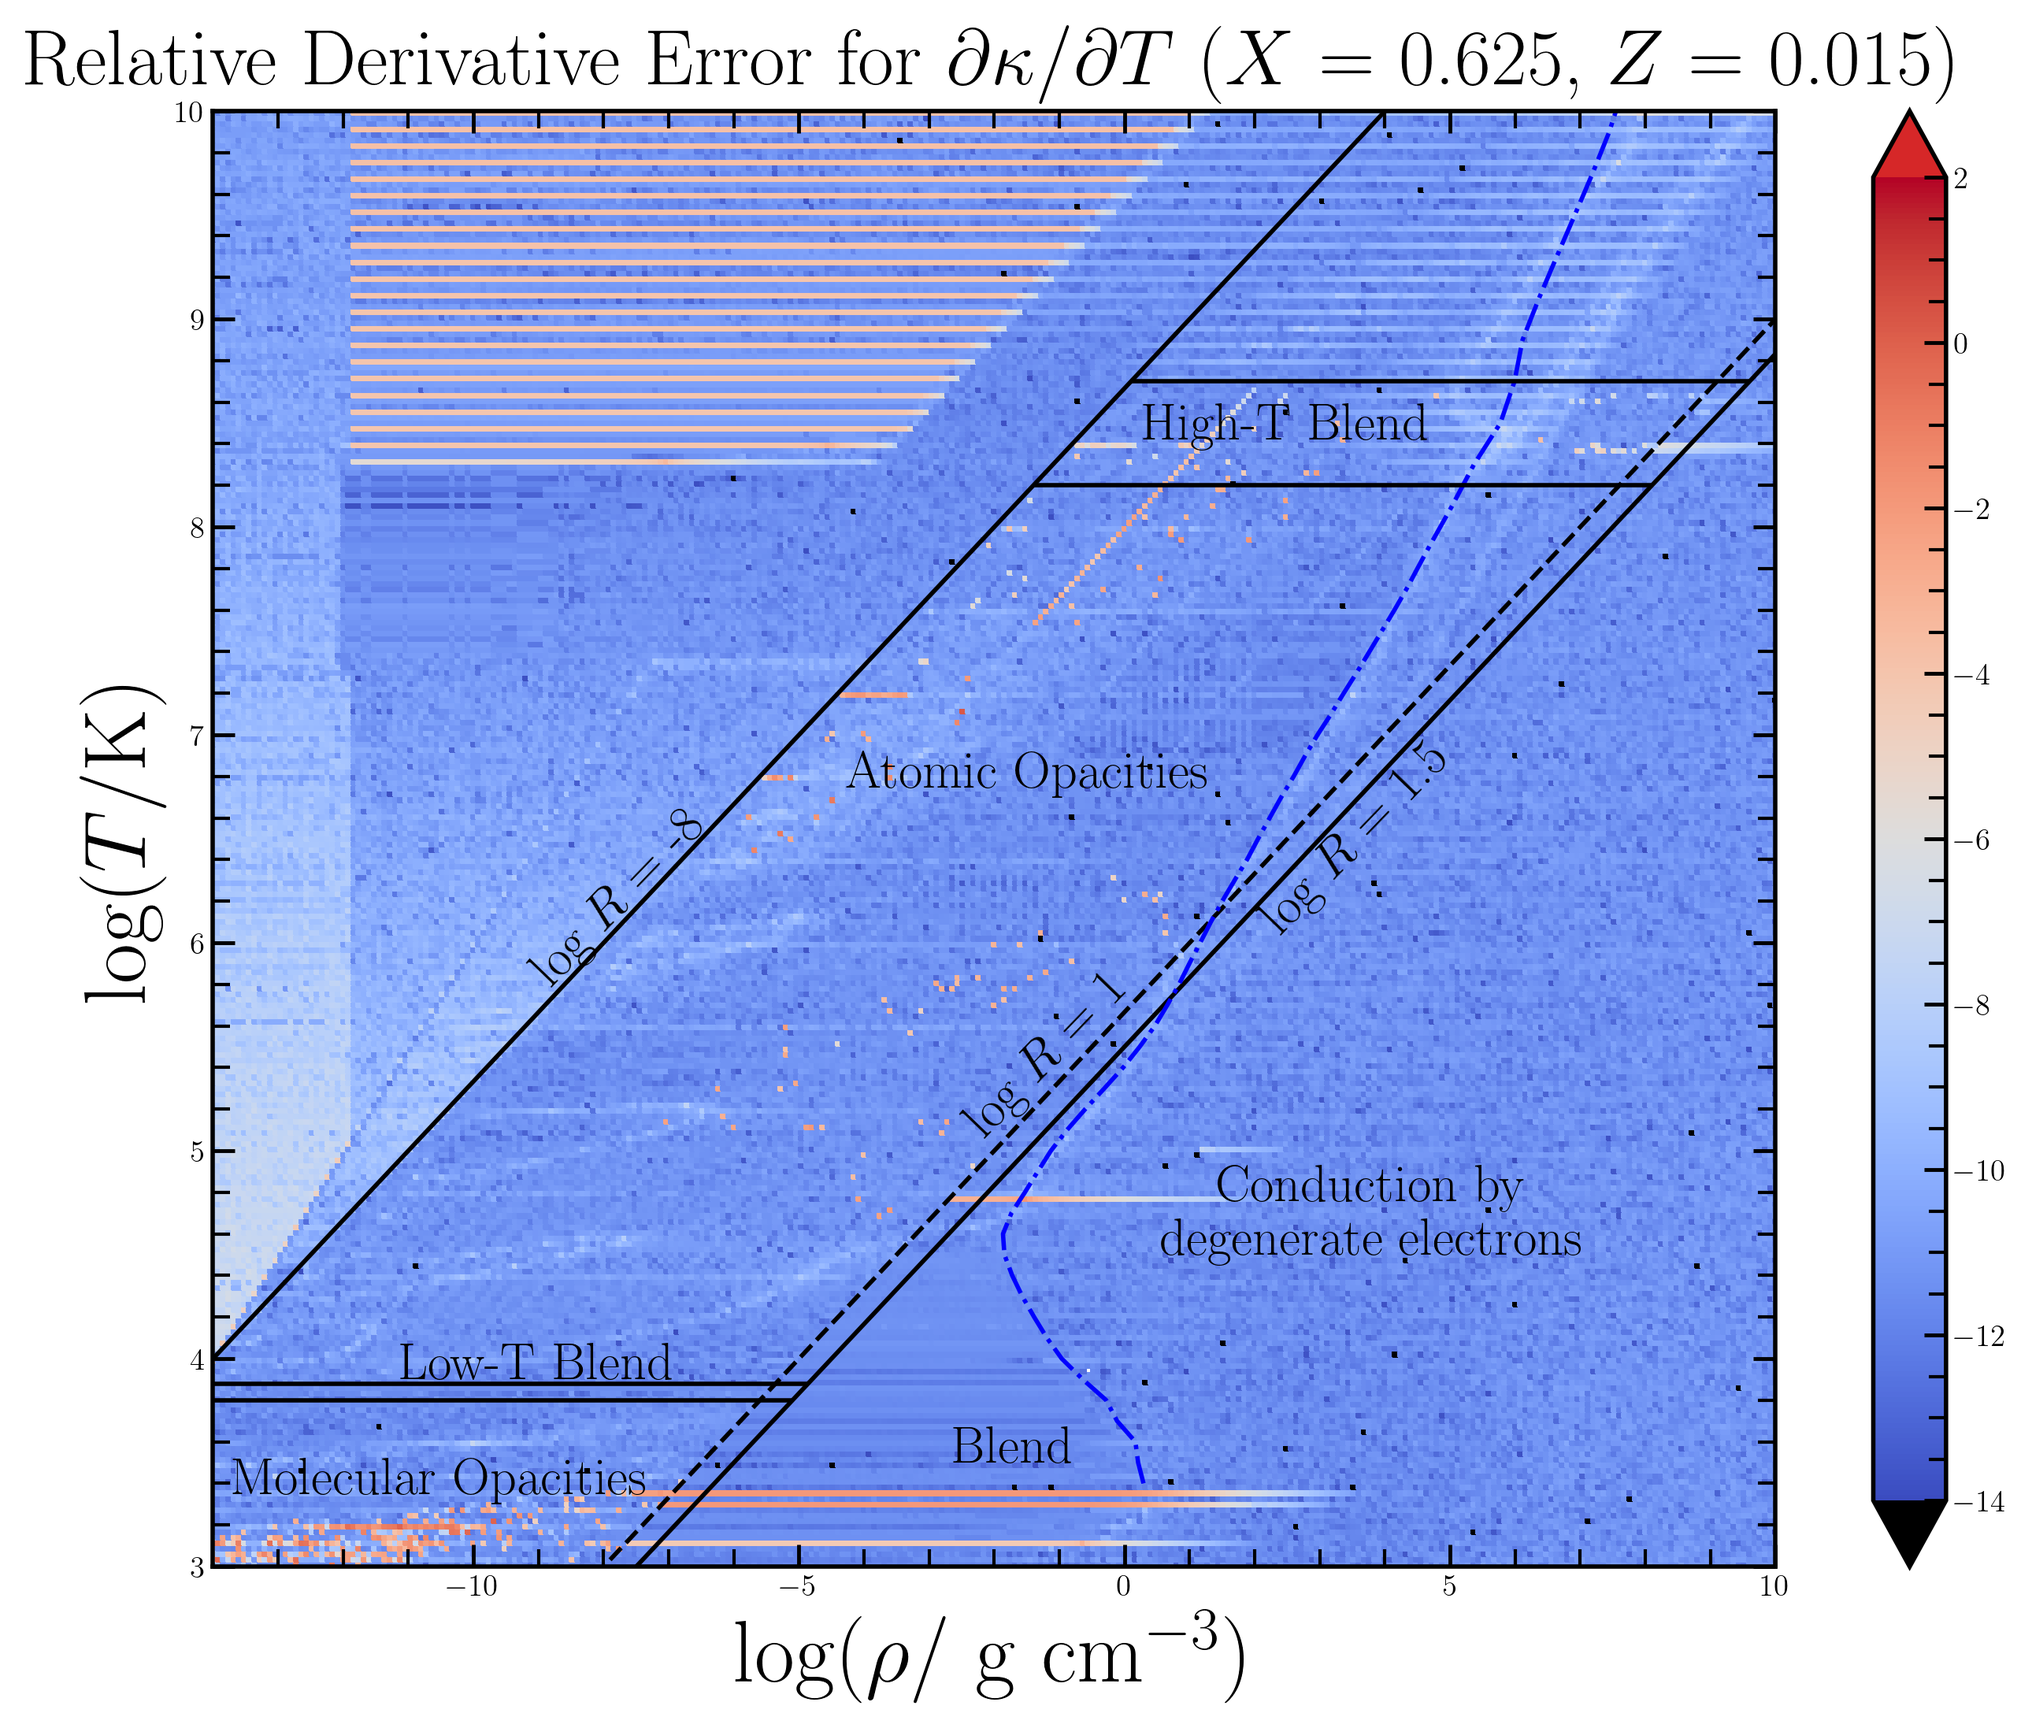
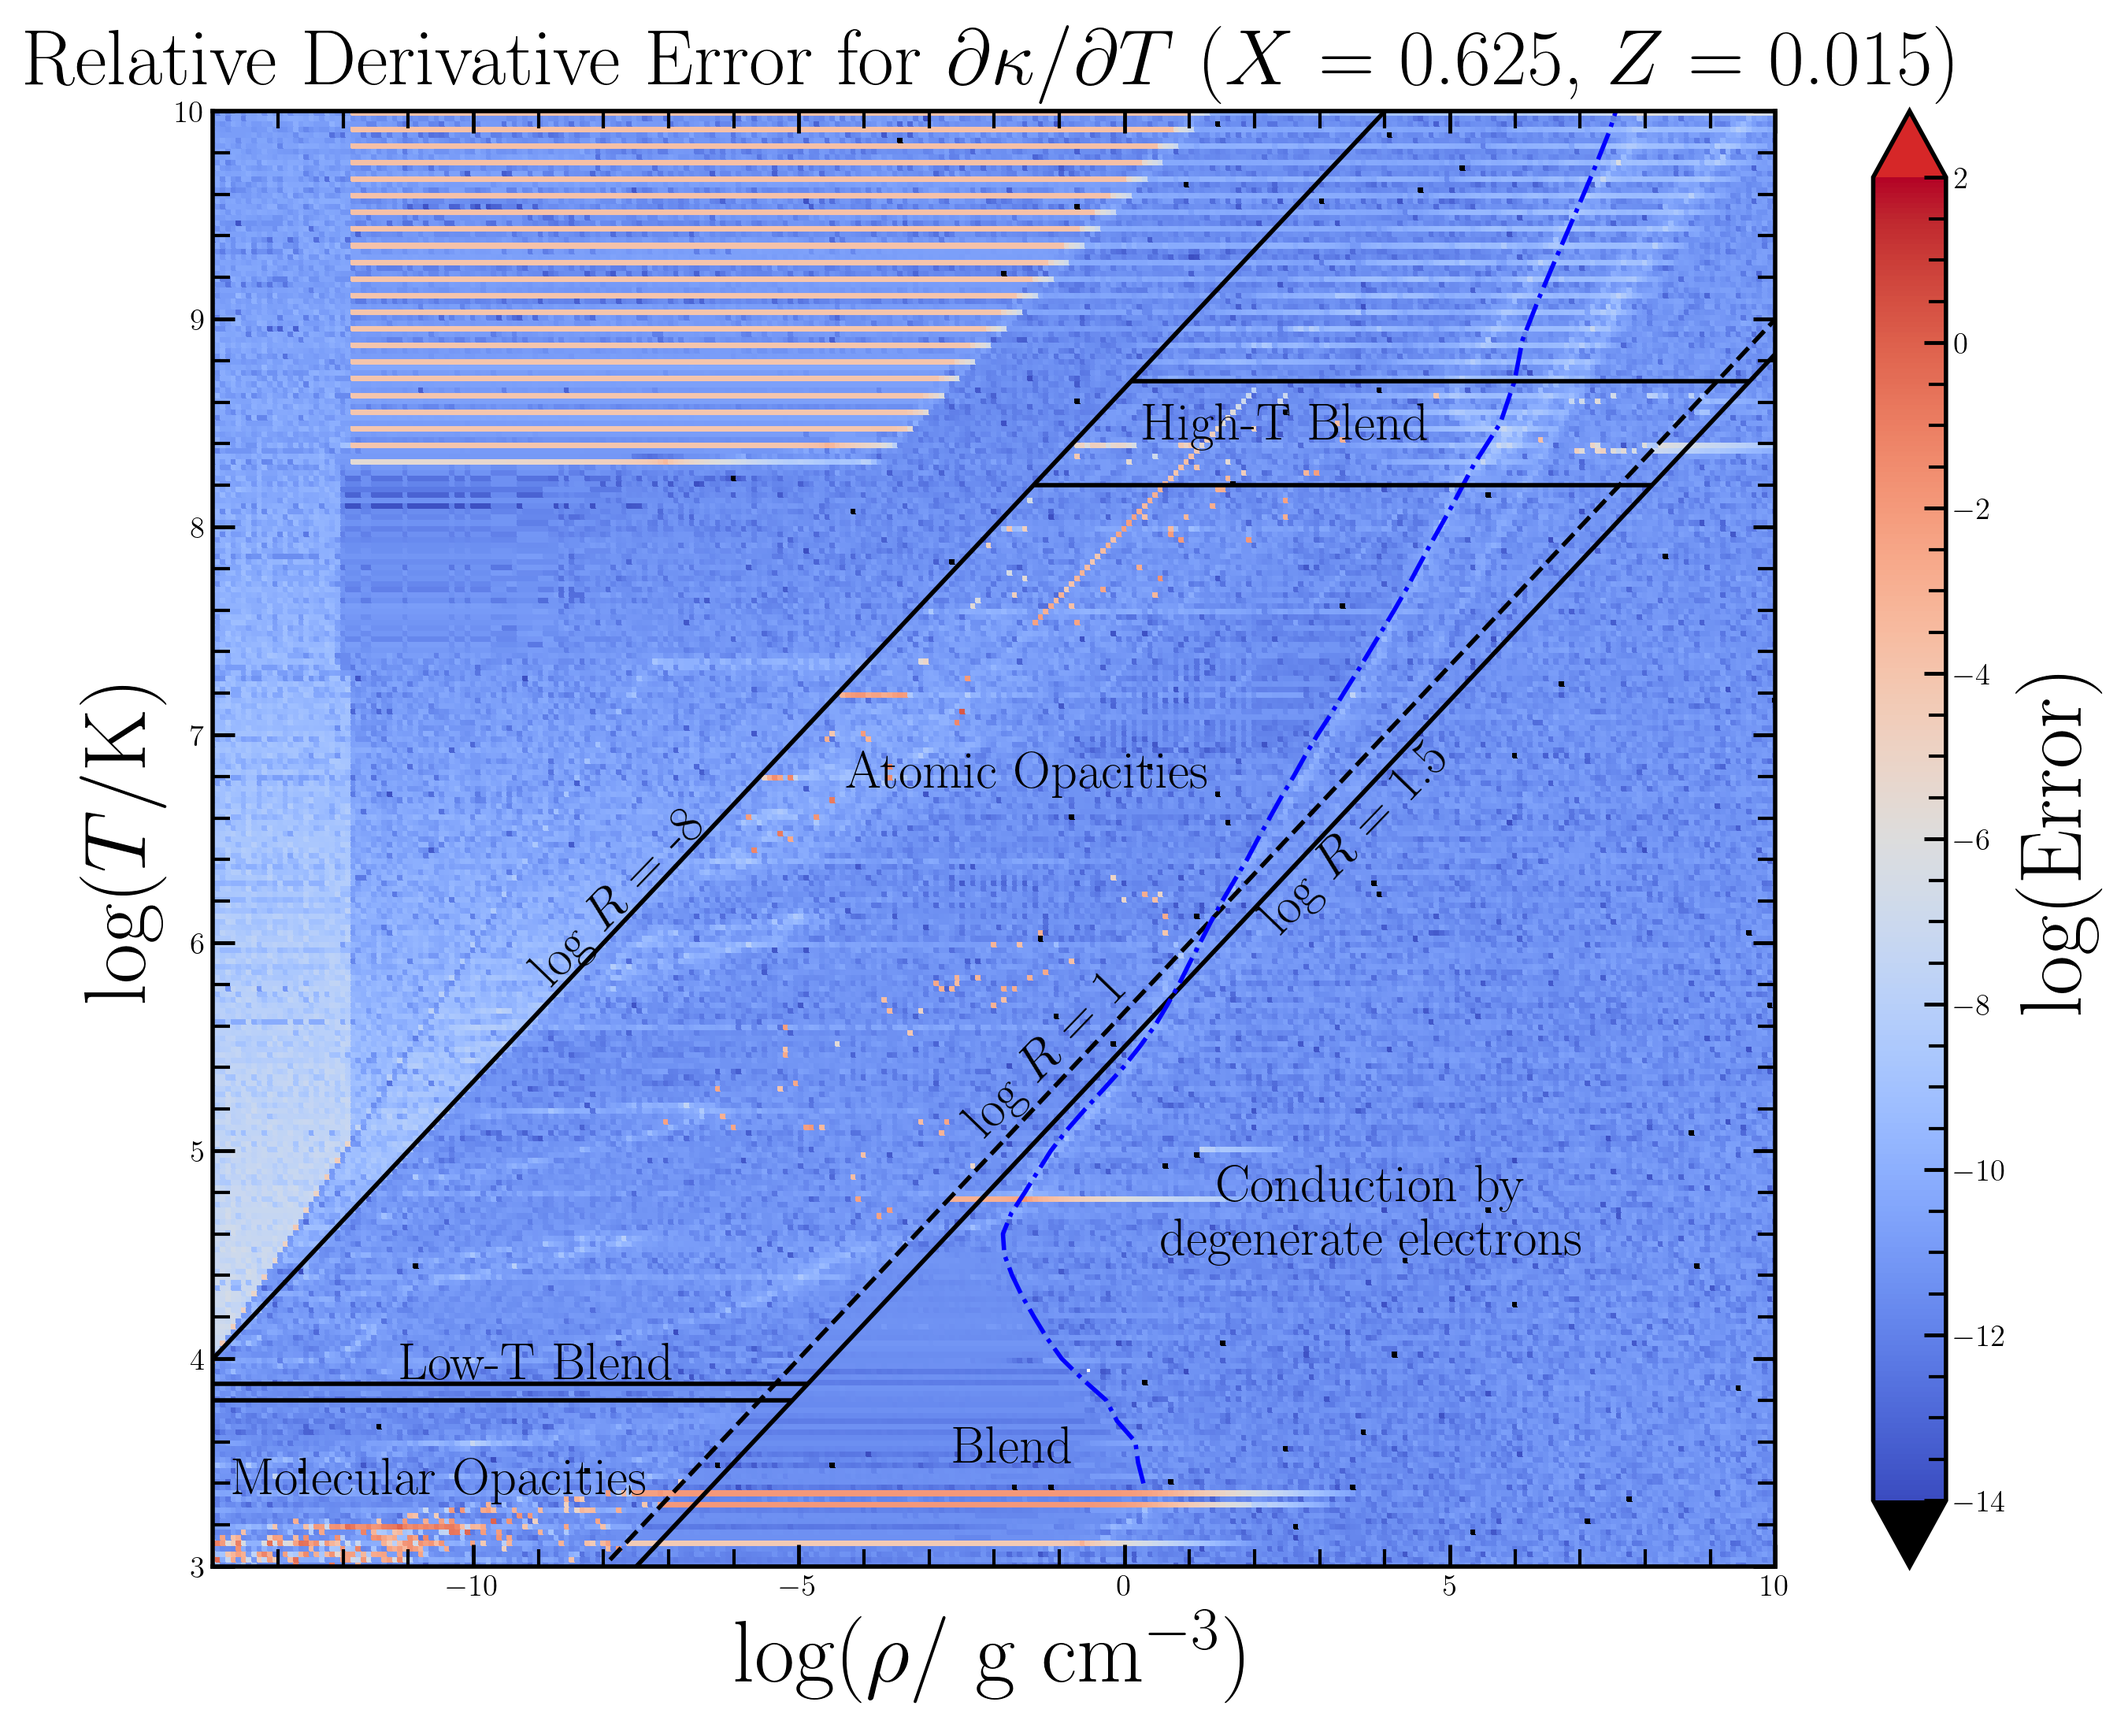
[ci skip] add colorbar label to plots and tweak changelog

Changed region(s): [[0.0, 0.0, 0.9922, 0.9918], [0.2171, 0.2479, 0.3411, 0.3099], [0.2791, 0.155, 0.3101, 0.186]]

diff --git a/docs/source/changelog.rst b/docs/source/changelog.rst
@@ -67,7 +67,7 @@ options for :ref:`kap/defaults:kap_lowT_prefix`:
 **Opacity interpolation**
 
 MESA interpolates across opacity tables in the :math:`X–Z` plane through the use of two consequtive 1D splines.
-Previous versions of MESA have offered the users the ability to choose linear or cubic interpolation for these splines, 
+Previous versions of MESA have offered users the ability to choose linear or cubic interpolation for these splines, 
 while leaving the default as linear interpolation::
 
   cubic_interpolation_in_X = .false.
@@ -81,21 +81,20 @@ derivatives and blue indicates high quality derivatives.
 .. figure:: changelog_plots/cubic_dfridr_dkapdT.png
    :alt: old cubic relative kap derivative error
 
-   This figure shows the relative error in the derivative :math:`\partial \kappa / \partial T` (:math:`X` = 0.625, :math:`Z` = 0.015),
+   This figure shows the logarithmic relative error in the derivative :math:`\partial \kappa / \partial T` (:math:`X` = 0.625, :math:`Z` = 0.015),
    for an OPAL opacity table grid using Grevesse & Sauval (1998) abundances, generated from MESA’s kap module, using cubic interpolation.
    The OPLIB log(:math:`R`) = −8, 1.5 table boundaries are marked with a solid black line and the OPAL/OP log(:math:`R`) = 1.0 boundary is shown with a dashed line. 
    The approximate location of the Z-dependent transition to an electron conduction dominated opacity is marked with dot-dash blue curve. Regions for Atomic, molecular,
    and compton scattering opacity are labeled and presented with their associated blending regions.
 
 
-While the opacity derivatives do not directly appear in the canonical equations of stellar structure, they do appear in the Jacobian matrix for the MESA implicit solver.
-The opacity derivatives are used to implicitly solve the stellar structure equations and reach a converged solution. Numerically unstable opacity derivatives can
-halt the progress of the solver and ultimately crash a calculation. 
+While the opacity derivatives do not directly appear in the canonical equations of stellar structure, they do appear in the Jacobian matrix for MESA's implicit solver.
+Numerically unstable opacity derivatives can halt the progress of the solver and ultimately crash a calculation. 
 
 To improve the numerical stability of MESA's cubic opacity interpolation routines, we have implemented
 automatic differentiation into the opacity interpolating functions. Now, when using cubic interpolation, the opacity derivatives for an arbitrary mixture
 in the :math:`X–Z` plane are computed by taking the derivative of the interpolating function as opposed to the interpolant of the derivatives. This improvement
-has resulted in a significant reduction in the relative derivative error and results in an increase in the numerical accuracy of opacity derivatives computed with cubic interpolation. 
+has lead to a significant reduction in the relative derivative error and an increase in the numerical accuracy of opacity derivatives computed with cubic interpolation. 
 
 .. figure:: changelog_plots/cubic_dfridr_dkapdT_ad.png
    :alt: new cubic relative kap derivative error
@@ -114,7 +113,7 @@ option (shown below), while also providing more accurate opacity physics between
 
 For this MESA release, linear interpolation remains the default method for interpolating in composition between opacity tables
 while we continue to investigate the residual areas where cubic interpolation appears to occasionally produce lower quality derivatives.
-However, we recommend users experiment with cubic interpolation, as it has been shown to consistently increase the overall 
+However, adopting cubic interpolation has been shown to consistently increase the overall 
 opacity of a model, and can directly effect the structure of solar models, see Appendix B & C in Farag et al. 2024.
 We anticipate making cubic interpolation the default in a future MESA release version. 
 We encourage users to experiment with these different opacity interpolation routines and be mindful of the effect they can have on their stellar models.
